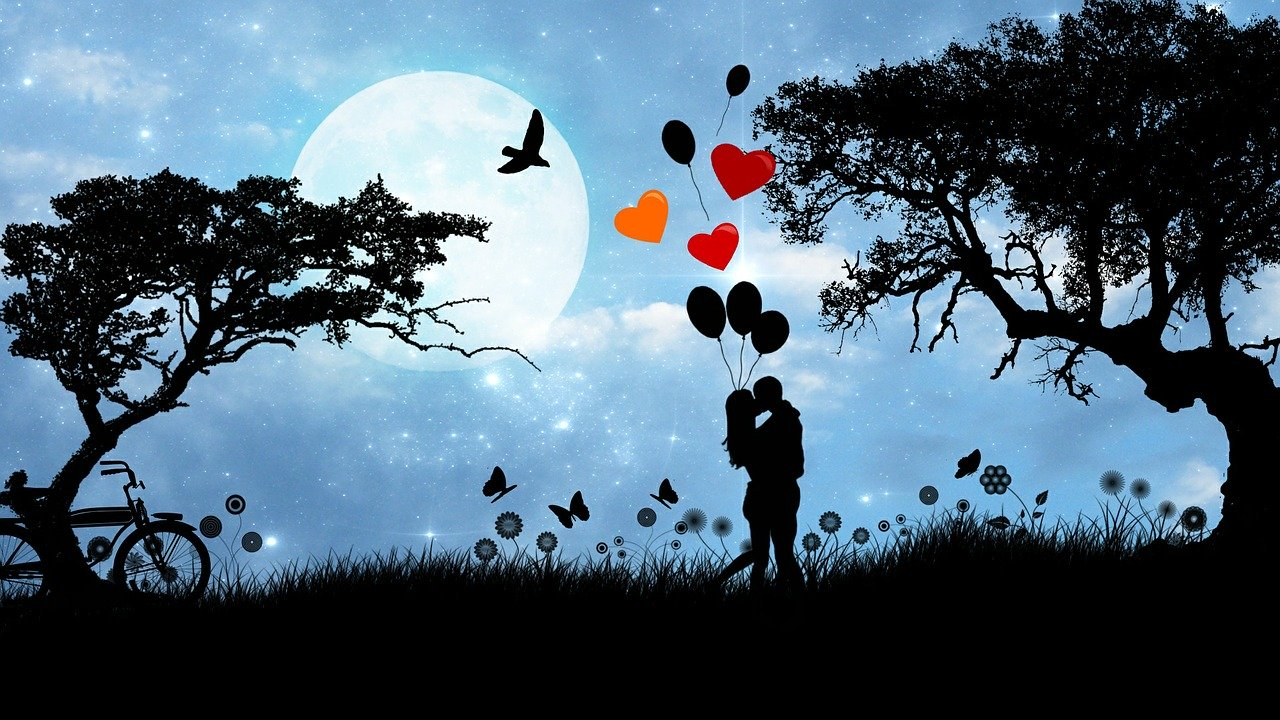
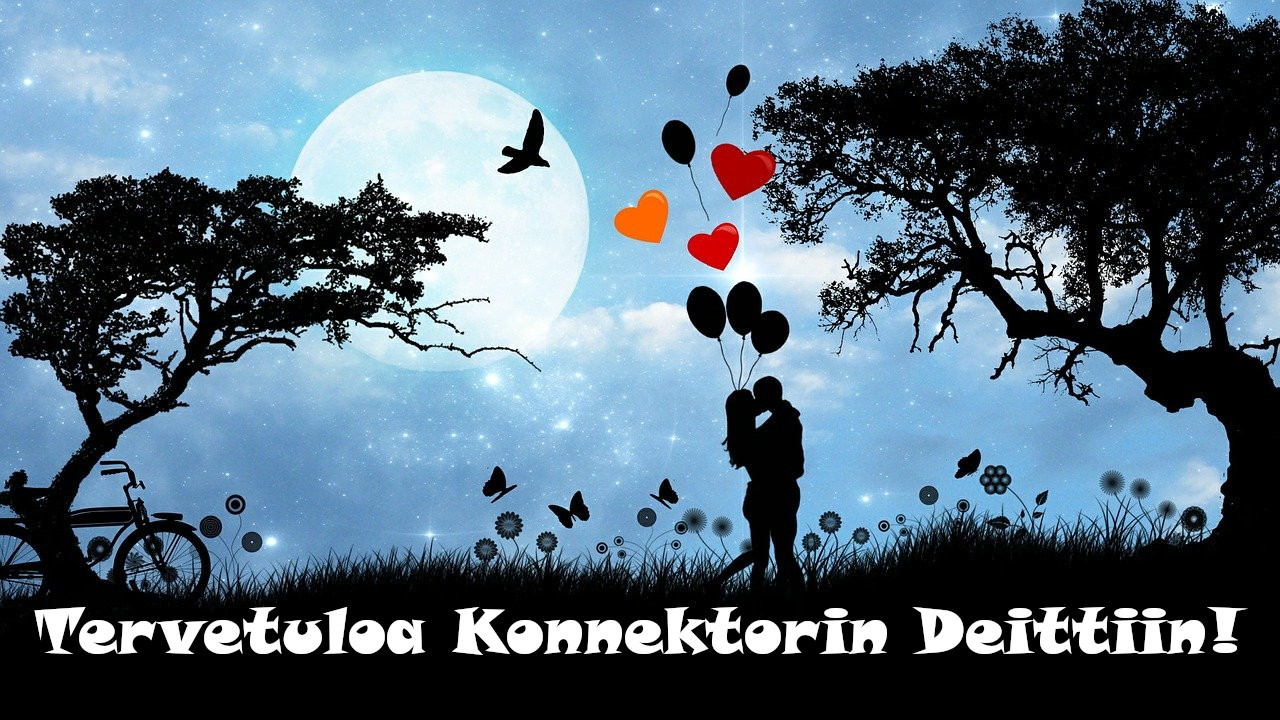
yup

Changed region(s): [[0.0312, 0.825, 0.9688, 0.9167]]

diff --git a/front-end/src/components/ContentArea/Inbox.js b/front-end/src/components/ContentArea/Inbox.js
@@ -62,11 +62,11 @@ const Inbox = ({ inbox, deleteMail, mailRead }) => {
 
   if (inbox.length === 0)
     return <div className={classes.container}>
-      <h1>Inbox is Empty</h1>
+      <h1>Ei viestejä</h1>
     </div>
 
   return <div className={classes.container}>
-    <h1>Inbox</h1>
+    <h1>Saapuneet viestit</h1>
     <Paper className={classes.root}>
       <Table className={classes.table} aria-label="simple table">
         <TableHead>

diff --git a/front-end/src/components/ContentArea/SentMail.js b/front-end/src/components/ContentArea/SentMail.js
@@ -62,11 +62,11 @@ const SentMail = ({ sent, deleteMail }) => {
 
   if (sent.length === 0)
     return <div className={classes.container}>
-      <h1>No Sent Mail</h1>
+      <h1>Ei viestejä</h1>
     </div>
 
   return <div className={classes.container}>
-    <h1>Sent Mail</h1>
+    <h1>Lähetetyt viestit</h1>
     <Paper className={classes.root}>
       <Table className={classes.table} aria-label="simple table">
         <TableHead>

diff --git a/front-end/src/components/Sidebar/OwnProfileStats.js b/front-end/src/components/Sidebar/OwnProfileStats.js
@@ -60,7 +60,7 @@ const OwnProfileStats = ({ user, fetchInbox, fetchSent, countOfUnread, openChat 
       <Paper elevation={10} className={classes.paper}>
         <h2>Käyttäjätiedot</h2>
         <p>Tunnus: {user.username}</p>
-        <p>Sukupuoli: {user.gender}</p>
+        <p>Sukupuoli: {user.gender === 'male' ? 'mies' : 'nainen'}</p>
         <p>Ikä: {user.age}</p>
       </Paper>
     </div>

diff --git a/front-end/src/components/ContentArea/EditNavigationContent.js b/front-end/src/components/ContentArea/EditNavigationContent.js
@@ -48,7 +48,7 @@ const MailNavigationContent = props => {
           activeClassName={classes.active}
         >
           <EditIcon className={classes.icon} />
-          Lisää profiilin kuvaus
+          Muokkaa profiilia
         </NavLink></p>
       <p className={classes.navLink} onClick={() => setShowFileUpload(!showFileUpload)}>
         <PhotoIcon className={classes.icon} />

diff --git a/front-end/src/components/Sidebar/ProfileStats.js b/front-end/src/components/Sidebar/ProfileStats.js
@@ -40,7 +40,7 @@ const ProfileStats = ({ profile, fromFavorites }) => {
       <Paper className={classes.paper} elevation={10}>
         <h2>Henkilötiedot</h2>
         <p>Tunnus: {profile.username}</p>
-        <p>Sukupuoli: {profile.gender}</p>
+        <p>Sukupuoli: {profile.gender === 'male' ? 'mies' : 'nainen'}</p>
         <p>Ikä: {profile.age}</p>
       </Paper>
     </div>

diff --git a/back-end/controllers/user.js b/back-end/controllers/user.js
@@ -21,7 +21,7 @@ userRouter.post('/signup', async (req, res, next) => {
     gender,
     age,
     image: { imageUrl: gender === 'male' ? 'https://image.flaticon.com/icons/svg/145/145867.svg' : 'https://image.flaticon.com/icons/svg/145/145852.svg' },
-    profileText: 'Nothing to show just yet'
+    profileText: 'Ei vielä profiilikuvausta'
   })
 
   try {

diff --git a/front-end/src/components/ContentArea/ContentArea.js b/front-end/src/components/ContentArea/ContentArea.js
@@ -29,7 +29,7 @@ const useStyles = makeStyles({
   welcome: {
     width: '100%',
     height: '100%',
-    backgroundImage: "url('/assets/images/tausta4.jpg')",
+    backgroundImage: "url('/assets/images/tausta.jpg')",
     backgroundSize: 'cover'
   }
 })
